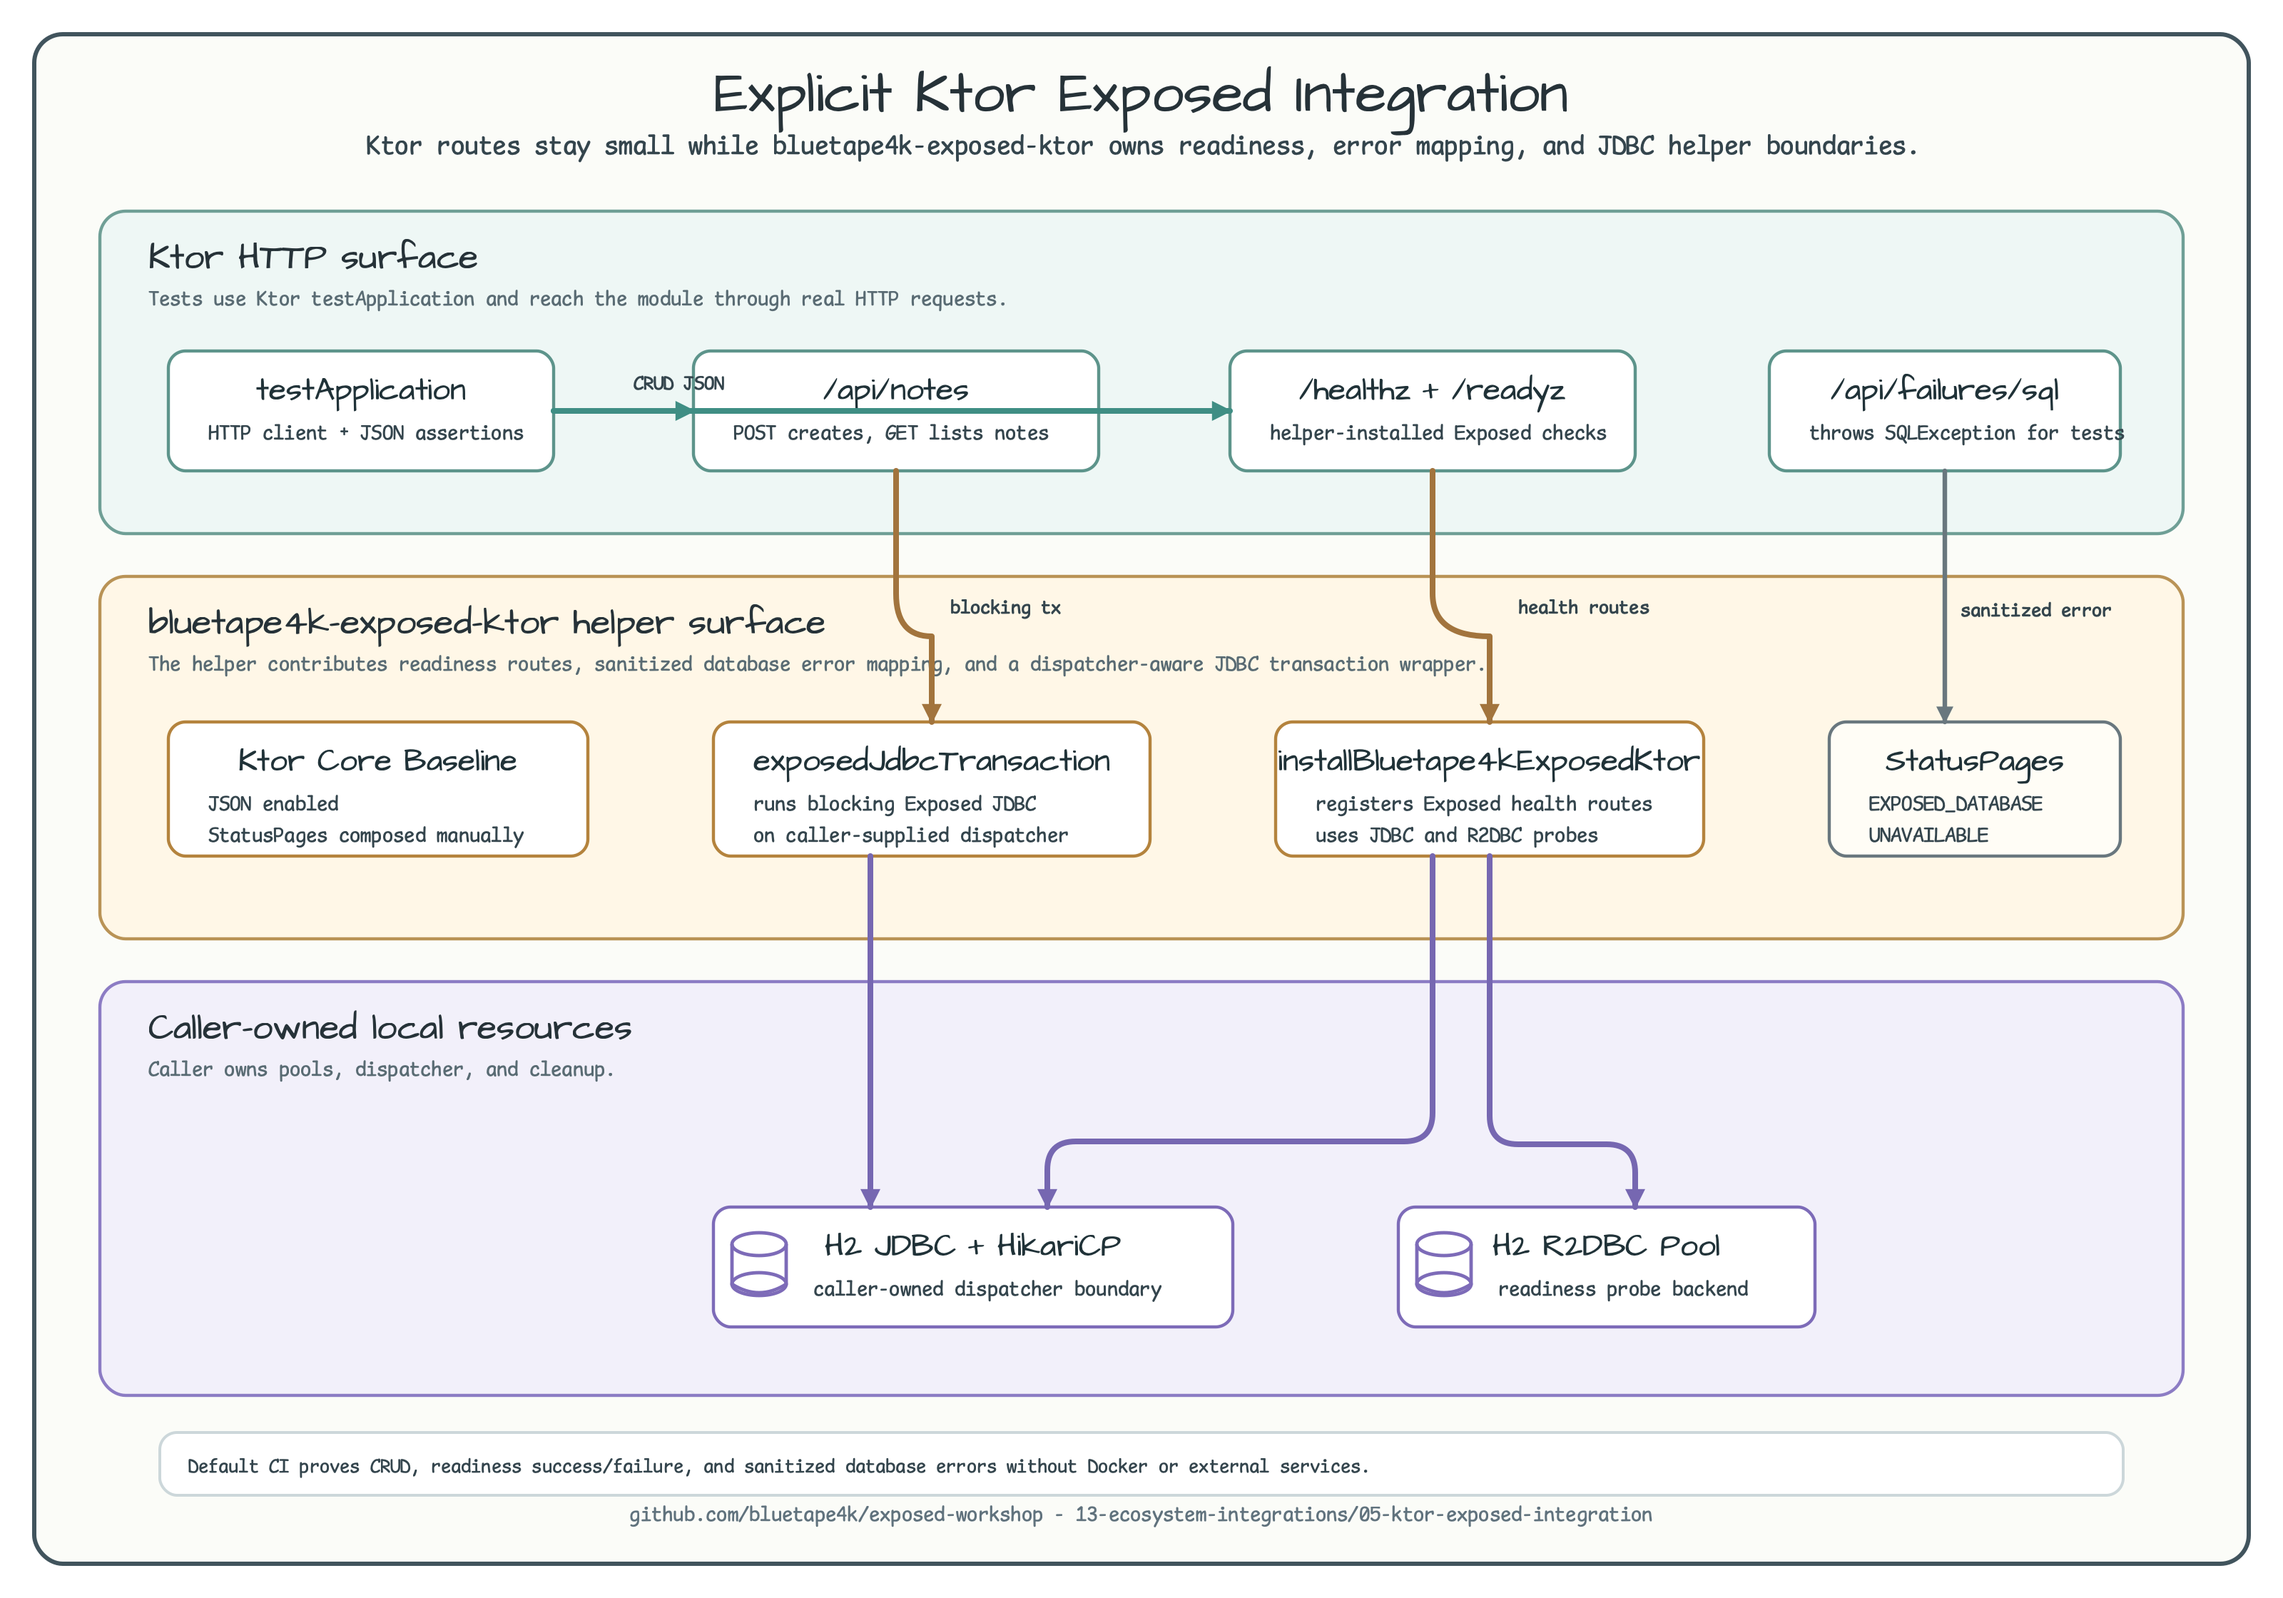
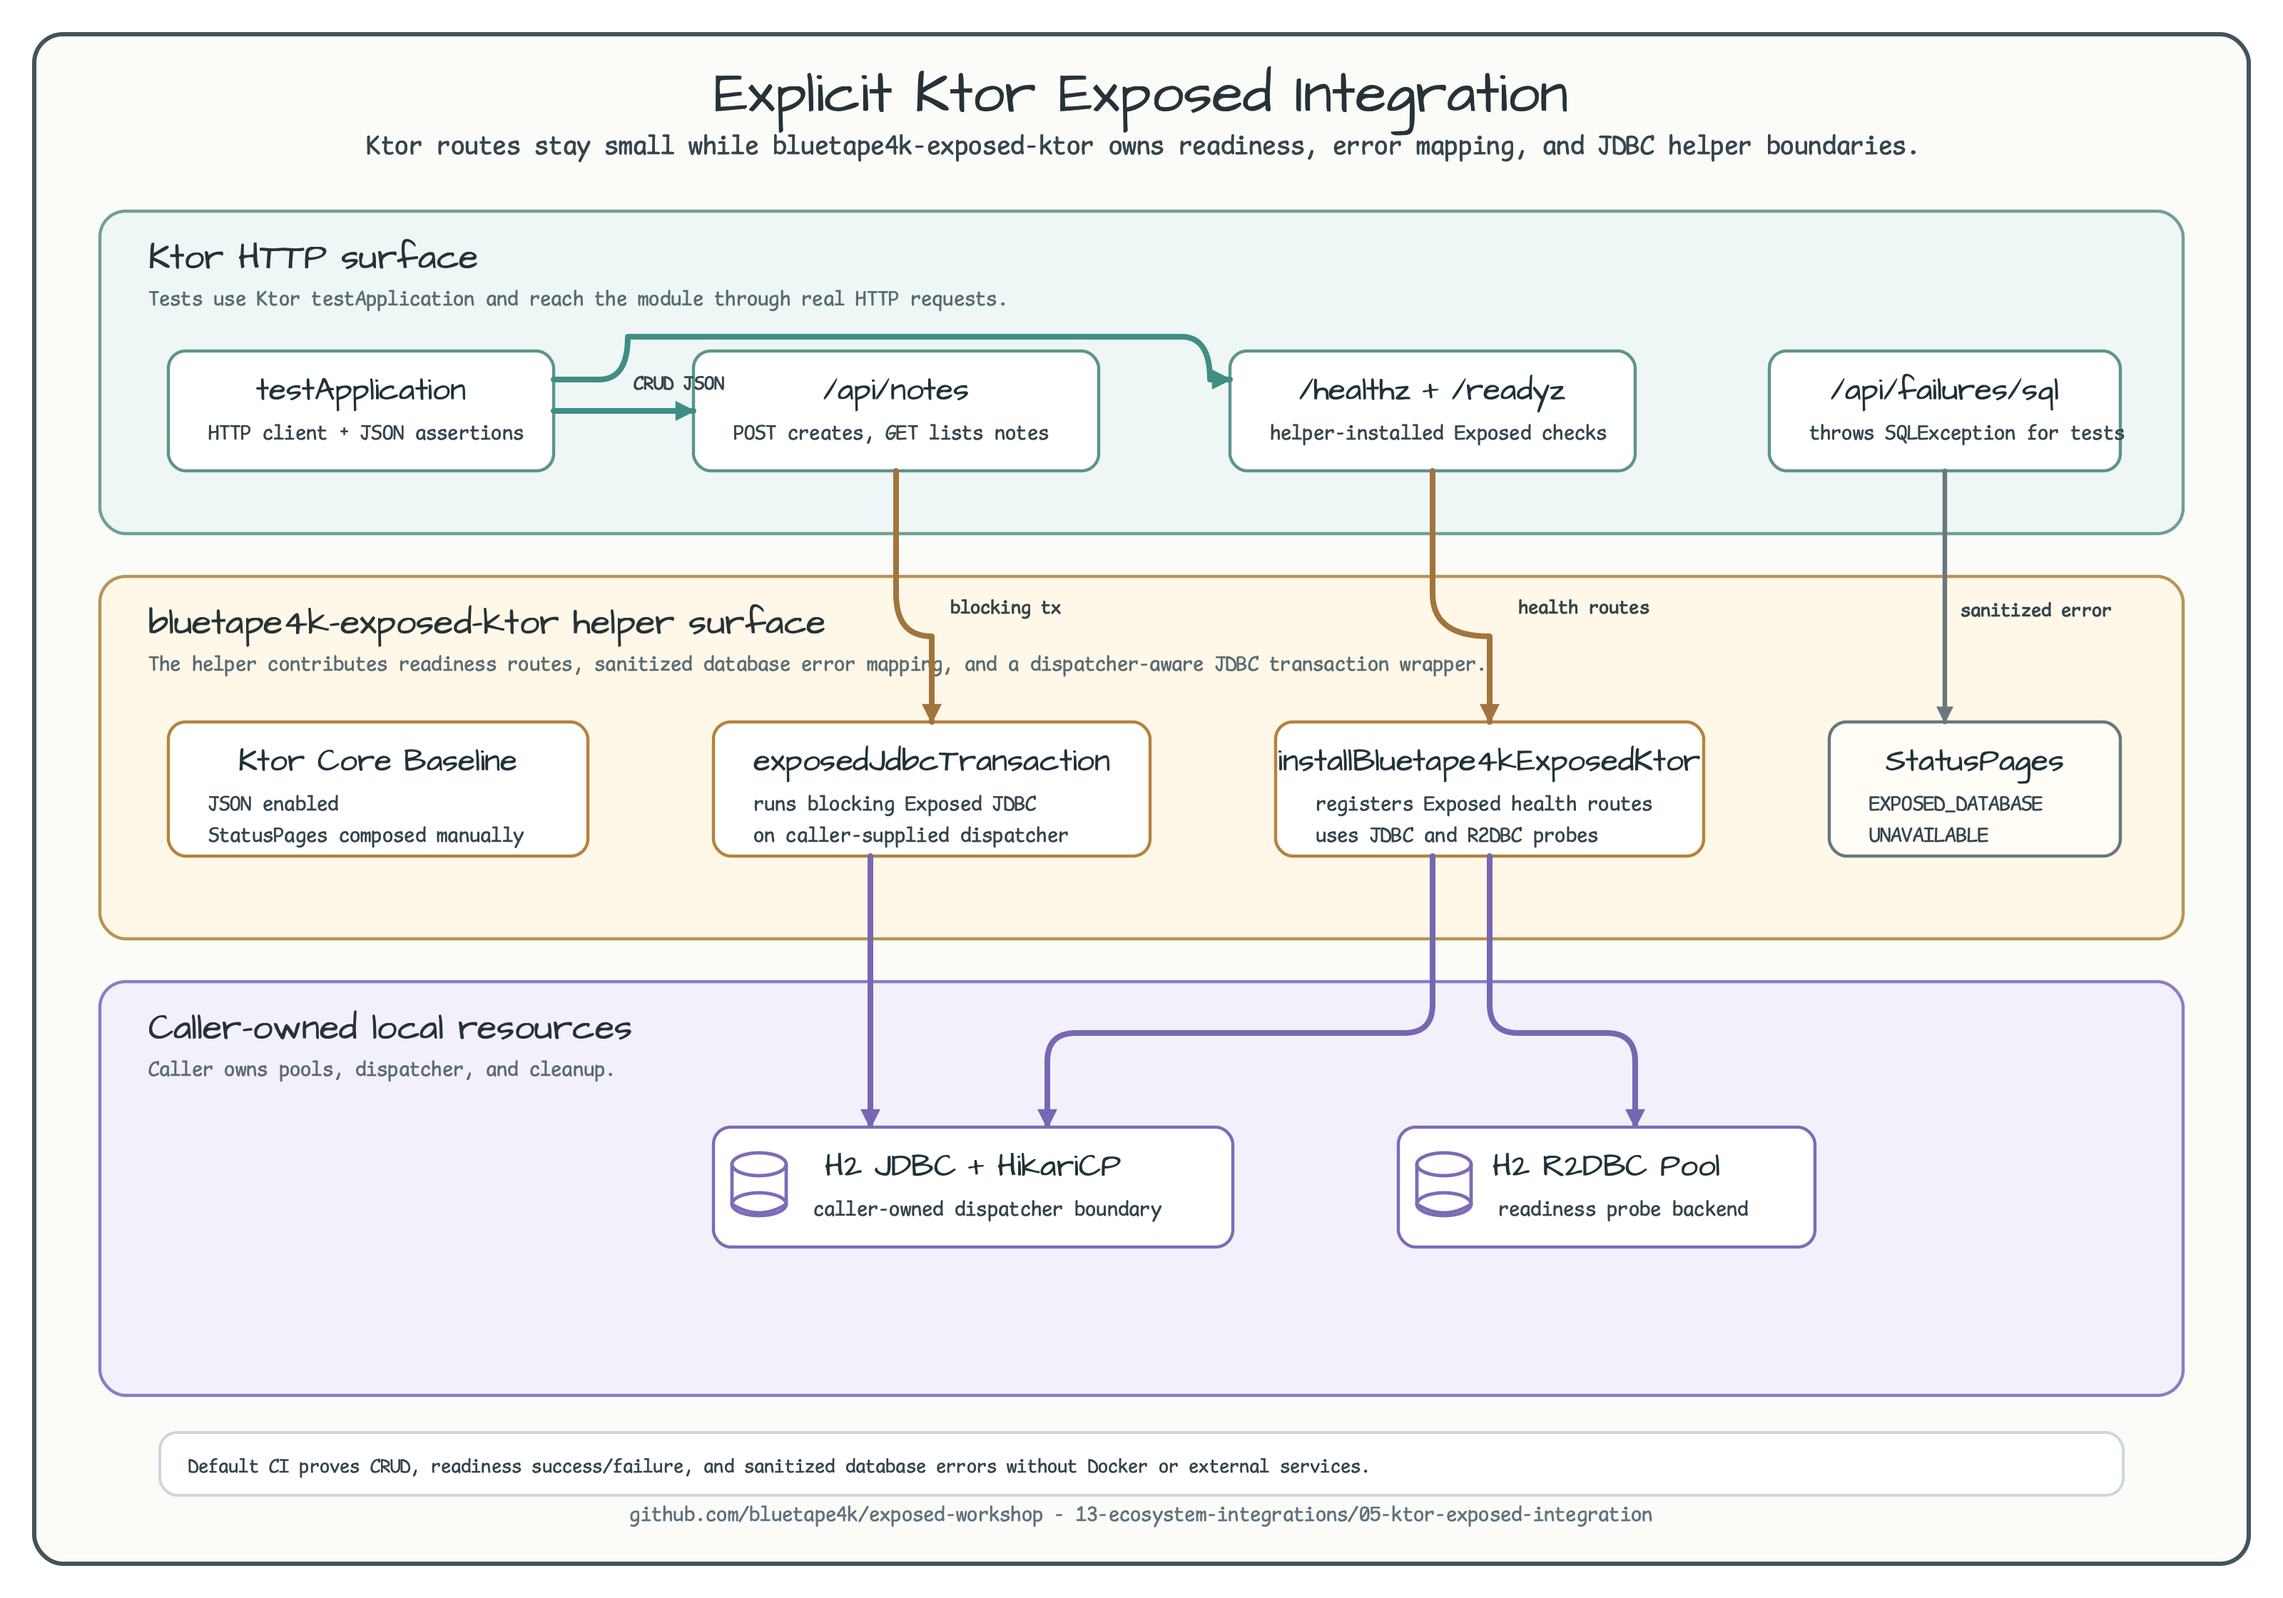
docs: prevent diagram connectors from crossing cards
The Ktor README diagram previously let a health-route connector pass through the /api/notes card while static endpoint checks still passed. Route that flow around the card, keep resource connectors shorter, and record the specific visual QA gap.

Constraint: bluetape4k-diagram requires rendered PNG inspection and no card-interior connector crossings.

Rejected: Treating endpoint and geometry audit success as sufficient | it missed a connector crossing an unrelated card body.

Confidence: high

Scope-risk: narrow

Directive: Run a path-vs-card interior sampling audit whenever a connector-heavy README diagram is revised.

Tested: xmllint for six Chapter 13 SVGs; diagram-geometry-audit --fail-diagonal for six Chapter 13 SVGs; diagram-endpoint-audit for architecture SVGs; diagram-sequence-style-audit for sequence SVGs; marker audit; connector crossing audit; card-intrusion sampling audit; git diff --check; full-size PNG and contact-sheet visual inspection.

Not-tested: GitHub Actions not rerun before push.

diff --git a/docs/lessons/2026-06-29-chapter13-diagram-connector-qa.md b/docs/lessons/2026-06-29-chapter13-diagram-connector-qa.md
@@ -5,7 +5,9 @@
 The Ktor Exposed integration README diagram passed SVG syntax and geometry
 checks, but the rendered PNG still showed resource connectors crossing the
 local-resource lane title/note text and later still looked like a large
-connector frame around the whole resource lane.
+connector frame around the whole resource lane. A later review also caught a
+more serious miss: the `testApplication` to `/healthz + /readyz` connector
+passed directly through the `/api/notes` card.
 
 ## Decision
 
@@ -19,7 +21,9 @@ are necessary but not sufficient for README diagrams.
 
 `05-ktor-exposed-integration-architecture-01.svg` now combines the JDBC
 datasource and dispatcher into one caller-owned resource card and keeps the
-resource connectors short, distinct, and away from lane text.
+resource connectors short, distinct, and away from lane text. The health-route
+HTTP connector now uses an upper bypass path instead of crossing the
+`/api/notes` card.
 
 ## Verification
 
@@ -29,6 +33,8 @@ resource connectors short, distinct, and away from lane text.
 - `diagram-sequence-style-audit.py` for the sequence SVGs.
 - Marker color audit, segment-crossing audit, and diagonal-connector audit for
   the touched SVG.
+- Card-intrusion sampling audit for connector paths against rendered card
+  rectangles in the touched SVG.
 - Full-size rendered PNG inspection plus a six-diagram contact sheet.
 
 ## Future Work
@@ -38,3 +44,6 @@ the diagram checklist as passed. Contact sheets are useful for coverage, but
 they do not replace targeted full-size inspection of dense connector areas.
 If a connector starts to look like a lane border or frame, redesign the card
 grouping and ports before trying another path-only patch.
+If a connector visually crosses a card body, do not rely on endpoint or corner
+audits; run a path-vs-card interior sampling check and inspect the full-size
+PNG before pushing.
